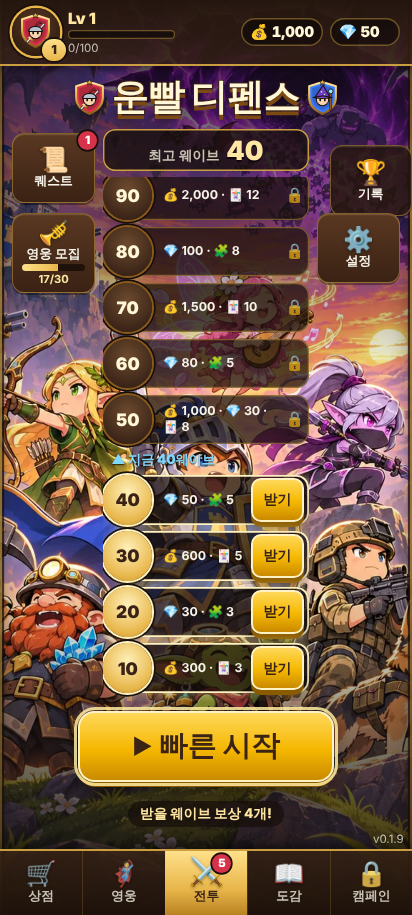
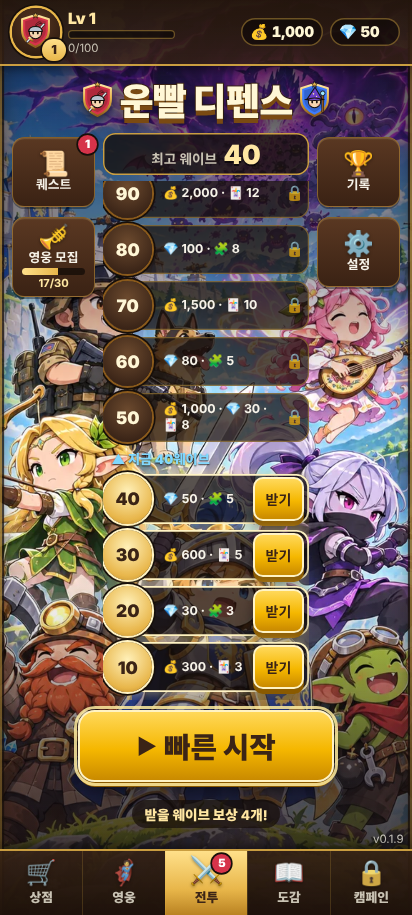
FB-57 웨이브 길 모두 받기 · 로비 [기록]·[설정] 정렬 기록
Claude-Session: https://claude.ai/code/session_01TtVcSoY665DmsK6h3dcafN

diff --git a/docs/PROGRESS.md b/docs/PROGRESS.md
@@ -1311,3 +1311,9 @@
   전체 E2E(포트 5187, 1.1시간): **190 통과 · 1 실패 · 2 건너뜀** → 실패 1 = `devtools` '⏭ 보스 단계에서 건너뛰기 → 돈 그대로' — 에이전트가 돌리지 않은 스펙이라 놓친 **이자 때문의 진짜 실패**(1,900원 → 2,000원, ⏭도 단계를 지나 이자 +100원). 기대값을 '그대로 + 이자(rules로 계산)'로 고쳐 그 스펙 5/5 통과.
   첫 보스 봇(시드 7001~7020, 상한 넣은 뒤): A 18/20 · B 20/20 (B 처치 평균 30.6초) — 이자 넣기 전과 같다.
 - **남은 문제**: 은행가 타워(30초마다 1~3% 이자)와 단계 이자가 겹치는 느낌은 실제로 해 보고 판단. 멈춘 피드백 #6·#8·#9는 기능 하나씩 이슈로 나눠 다시 올리거나 에이전트 한도를 올려야 한다.
+
+### 피드백 #57 — 웨이브 보상 한 번에 받기 · 로비 설정 버튼 위치 (fix/feedback-57)
+- 이슈 제목만 있음(본문·판 기록 JSON 없음 → 리플레이 재현 테스트 대상 없음, 규칙 단위 테스트를 먼저).
+- **웨이브 길 모두 받기**: `progress.claimAllMilestones(state, pd, data)` — 받을 수 있는 이정표를 낮은 웨이브부터 `claimMilestone`으로 받아(아래부터 하나씩 받은 것과 같은 굴림) `{ waves, grant }`로 합침, 없으면 null. Grant 합치기는 `claimAllQuests`와 같은 `mergeGrants`로 뺐다. `ProgressStore.claimAllMilestones()`는 한 번 저장·알림. 로비 웨이브 길의 어느 [받기]를 눌러도 전부 받고 받은 창은 한 번('웨이브 보상 n개', 하나면 'n웨이브 보상'). 데이터·저장 형식 변경 없음.
+- **설정 위치**: 로비 오른쪽 줄 [기록] 버튼이 타이틀 화면용 클래스 `.title-records-btn`(left·top 3cqw)을 물려받아 `position: relative`로 오른쪽·아래로 12px쯤 밀려 있었다 → [설정]이 왼쪽으로 어긋나 보임. 로비 버튼에서 그 클래스를 뺐다 (이제 [기록]·[설정] 같은 x, 왼쪽 줄과 좌우 대칭).
+- 테스트: `g3-progress` 2개(모두 받기 = 하나씩 받은 것과 같은 상태·합계, 저장소 알림 — 고치기 전 실패 확인). E2E: 새 `fb57.spec.ts`(412·320 정렬·대칭, 고치기 전 12.4px 어긋남으로 실패 확인), `g3` a의 기대값을 의도한 변경으로 고침(10웨이브 [받기] → 10~40 모두, 💰 +900 · 💎 +80). `docs/screens/G3-lobby.png` 다시 찍음.
